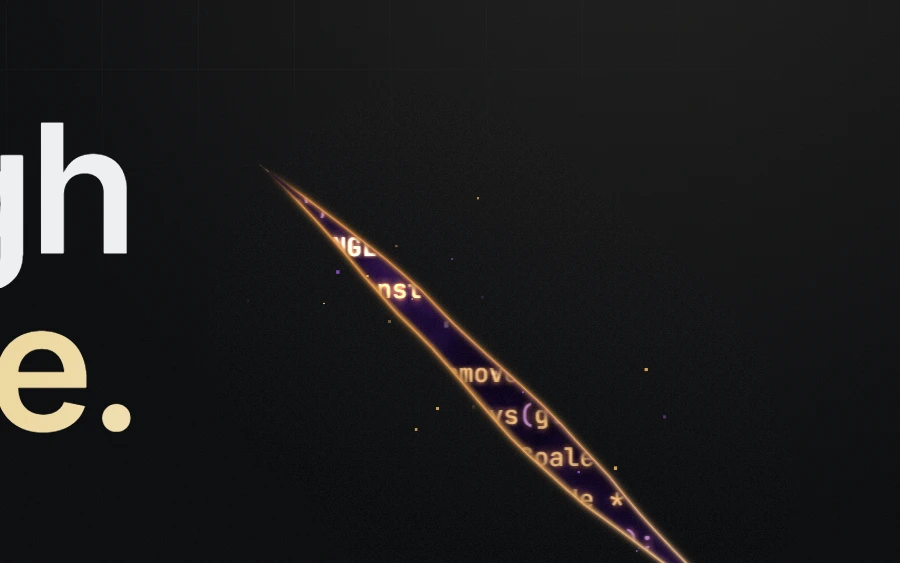
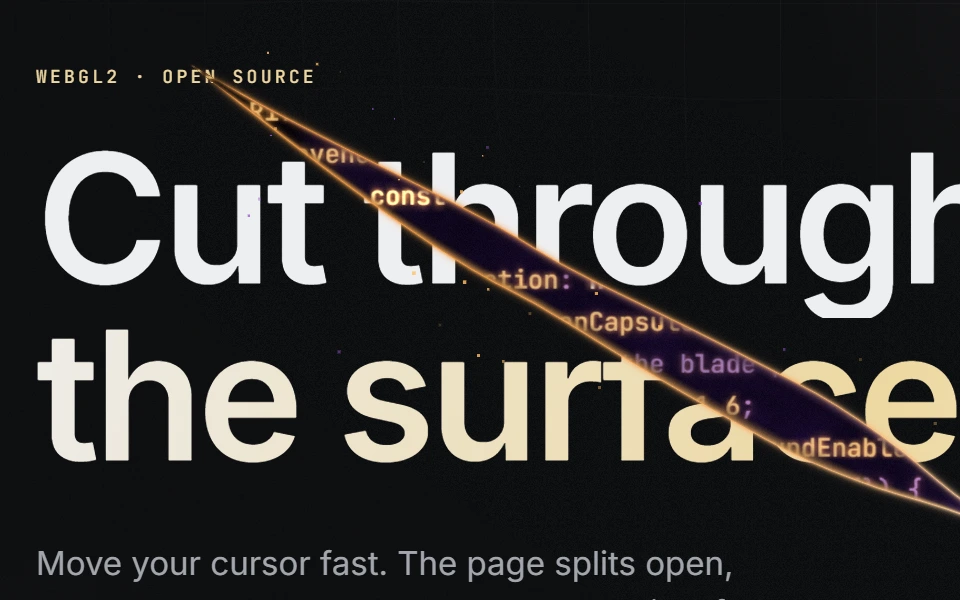
Add an over layer: the cut on top of the content, the bend behind it

Changed region(s): [[0.0, 0.0906, 1.0, 1.0], [0.0, 0.5435, 0.3111, 0.7851], [0.0311, 0.0906, 0.1244, 0.151]]

diff --git a/src/hero-rift/engine.ts b/src/hero-rift/engine.ts
@@ -14,6 +14,10 @@ export type EngineOptions = {
   soundUrl: string | null;
   /** Whether the sound starts on (it still needs one click/key press first — a browser rule). */
   soundEnabled: boolean;
+  /** Draw the cut over the page content (this canvas sits above it). */
+  over: boolean;
+  /** With `over`: a canvas BEHIND the content that receives the lens (the grid bending), so it shows under the text. */
+  lensCanvas: HTMLCanvasElement | null;
 };
 
 export type RiftController = {
@@ -45,7 +49,7 @@ type Resources = {
 
 const MAIN_UNIFORMS = [
   "uPts", "uSeg", "uCount", "uRes", "uSize", "uScale", "uTime", "uParallax", "uNebula", "uCode",
-  "uCodeSize", "uBg", "uFg", "uAccent", "uRim", "uGlow", "uViolet", "uDark",
+  "uCodeSize", "uBg", "uFg", "uAccent", "uRim", "uGlow", "uViolet", "uDark", "uPass",
 ];
 const PARTICLE_UNIFORMS = ["uRes", "uScale", "uGlow", "uViolet", "uAlpha"];
 
@@ -205,6 +209,9 @@ export function createRiftEngine(canvas: HTMLCanvasElement, section: HTMLElement
     powerPreference: "high-performance",
   });
   if (!gl) return null;
+  const lens2d = options.over && options.lensCanvas ? options.lensCanvas.getContext("2d") : null;
+  /** The device-pixel rect copied to the lens canvas last frame (top-left origin), cleared before the next copy. */
+  const lensRect = { x: 0, y: 0, w: 0, h: 0 };
 
   let res: Resources | null = null;
   let disposed = false;
@@ -299,6 +306,11 @@ export function createRiftEngine(canvas: HTMLCanvasElement, section: HTMLElement
       canvas.width = w;
       canvas.height = h;
     }
+    if (lens2d && (lens2d.canvas.width !== w || lens2d.canvas.height !== h)) {
+      lens2d.canvas.width = w;
+      lens2d.canvas.height = h;
+      lensRect.w = 0;
+    }
     scale = cssW > 0 ? w / cssW : target;
     gl.viewport(0, 0, w, h);
     applyStatic();
@@ -306,10 +318,15 @@ export function createRiftEngine(canvas: HTMLCanvasElement, section: HTMLElement
   };
 
   // ------------------------------------------------------------ drawing
+  const clearLens = () => {
+    if (lens2d && lensRect.w > 0) lens2d.clearRect(lensRect.x, lensRect.y, lensRect.w, lensRect.h);
+    lensRect.w = 0;
+  };
   const clear = () => {
     gl.disable(gl.SCISSOR_TEST);
     gl.clearColor(0, 0, 0, 0);
     gl.clear(gl.COLOR_BUFFER_BIT);
+    clearLens();
   };
 
   const bindTextures = (r: Resources) => {
@@ -389,6 +406,24 @@ export function createRiftEngine(canvas: HTMLCanvasElement, section: HTMLElement
       gl.uniform2f(u.uParallax, parX, parY);
       bindTextures(res);
       gl.bindVertexArray(res.quad);
+      if (lens2d) {
+        // Two layers: the lens goes to the canvas behind the content, the cut stays on this one, over it.
+        gl.uniform1f(u.uPass, 1);
+        gl.drawArrays(gl.TRIANGLES, 0, 3);
+        const x = sx0;
+        const y = canvas.height - sy1; // 2D canvases count rows from the top
+        const w = sx1 - sx0;
+        const h = sy1 - sy0;
+        lens2d.drawImage(canvas, x, y, w, h, x, y, w, h);
+        lensRect.x = x;
+        lensRect.y = y;
+        lensRect.w = w;
+        lensRect.h = h;
+        gl.clear(gl.COLOR_BUFFER_BIT); // scissored: only the box
+        gl.uniform1f(u.uPass, 2);
+      } else {
+        gl.uniform1f(u.uPass, options.over ? 2 : 0);
+      }
       gl.drawArrays(gl.TRIANGLES, 0, 3);
     }
 

diff --git a/src/hero-rift/index.ts b/src/hero-rift/index.ts
@@ -8,6 +8,13 @@ export type HeroRiftOptions = {
   sound?: string;
   /** Start with the sound on. Default true. (Audio still waits for one click or key press — a browser rule.) */
   soundEnabled?: boolean;
+  /**
+   * "behind" (default): the whole effect sits under the hero's content.
+   * "over": the cut is drawn on top of the hero's content (text, buttons), while
+   * the grid bending around it stays behind the content so text stays sharp.
+   * Clicks pass through either way.
+   */
+  layer?: "behind" | "over";
 };
 
 export type HeroRift = {
@@ -42,11 +49,15 @@ const layer = (tag: "div" | "canvas", className: string) => {
  * competes with the page's first paint.
  */
 export function createHeroRift(section: HTMLElement, options: HeroRiftOptions = {}): HeroRift {
+  const over = options.layer === "over";
   section.classList.add("hero-rift");
+  if (over) section.classList.add("hero-rift--over");
   const grid = layer("div", "hero-rift__grid");
   const atmosphere = layer("div", "hero-rift__atmosphere");
+  // In "over" mode the grid bending gets its own canvas in the background slot.
+  const lens = over ? (layer("canvas", "hero-rift__lens") as HTMLCanvasElement) : null;
   const canvas = layer("canvas", "hero-rift__canvas") as HTMLCanvasElement;
-  section.prepend(grid, atmosphere, canvas);
+  section.prepend(...(lens ? [grid, atmosphere, lens, canvas] : [grid, atmosphere, canvas]));
 
   const fine = window.matchMedia("(pointer: fine)");
   const reduced = window.matchMedia("(prefers-reduced-motion: reduce)");
@@ -69,6 +80,8 @@ export function createHeroRift(section: HTMLElement, options: HeroRiftOptions = 
           fontFamily: mono,
           soundUrl: options.sound ?? null,
           soundEnabled,
+          over,
+          lensCanvas: lens,
         });
       })
       .catch((error) => console.warn("hero-rift: engine failed to load", error))
@@ -107,8 +120,9 @@ export function createHeroRift(section: HTMLElement, options: HeroRiftOptions = 
       stop();
       grid.remove();
       atmosphere.remove();
+      lens?.remove();
       canvas.remove();
-      section.classList.remove("hero-rift");
+      section.classList.remove("hero-rift", "hero-rift--over");
     },
   };
 }

diff --git a/src/hero-rift/shaders.ts b/src/hero-rift/shaders.ts
@@ -86,6 +86,7 @@ uniform sampler2D uCode;
 uniform vec2 uCodeSize;       // css px
 uniform vec3 uBg, uFg, uAccent, uRim, uGlow, uViolet;
 uniform float uDark;
+uniform float uPass;          // 0 = everything; 1 = only the lens (grid bending); 2 = only the cut (inside + rim)
 
 out vec4 outColor;
 
@@ -206,7 +207,11 @@ void main() {
   float open = smoothstep(.4, 3., hw);
   vec4 col = vec4(0.);
 
-  if (h.e > 0.) {
+  bool lens = uPass < 1.5;               // pass 0 or 1
+  bool cut = uPass < .5 || uPass > 1.5;  // pass 0 or 2
+  if (h.e > 0. && !lens) {
+    // Cut-only pass (drawn over the page content): outside the cut stays clear.
+  } else if (h.e > 0.) {
     float e = h.e;
     const float R = LENS_RADIUS;
     float f = exp(-(e * e) / (R * R)) * (1. - smoothstep(1.6 * R, LENS_CUTOFF * R, e));
@@ -230,7 +235,7 @@ void main() {
       }
       col = vec4(c * a, a);
     }
-  } else {
+  } else if (cut) {
     float x = clamp(h.d / max(hw, 1e-3), 0., 1.);
     // A window with depth: deep space drifts and shifts most, the code less.
     vec2 deep = p * .7 + uParallax * 34. + vec2(uTime * 5., uTime * 1.5);
@@ -253,7 +258,7 @@ void main() {
   // Only the cut's own edge is lit: a crisp hairline, no halo or shadow
   // around it. It cools as the cut heals — white-hot behind the blade, then
   // gold, then amber.
-  float rim = exp(-abs(h.e) / 1.4) * open * .95;
+  float rim = cut ? exp(-abs(h.e) / 1.4) * open * .95 : 0.;
   vec3 rimCol = mix(uRim, mix(uGlow, vec3(.85, .38, .12), .35 * uDark), smoothstep(.06, .55, h.age));
   col = over(vec4(rimCol, 1.) * rim, col);
   col.rgb += (hash(gl_FragCoord.xy) - .5) * .03 * col.a;

diff --git a/src/hero-rift/hero-rift.css b/src/hero-rift/hero-rift.css
@@ -33,6 +33,7 @@
 
 .hero-rift__grid,
 .hero-rift__atmosphere,
+.hero-rift__lens,
 .hero-rift__canvas {
   position: absolute;
   inset: 0;
@@ -40,9 +41,15 @@
   pointer-events: none;
 }
 
+.hero-rift__lens,
 .hero-rift__canvas {
   width: 100%;
   height: 100%;
+}
+
+/* layer: "over" — the cut above the hero's content. Raise --rift-over-z if your content has its own z-index. */
+.hero-rift--over .hero-rift__canvas {
+  z-index: var(--rift-over-z, 1);
 }
 
 /* Blueprint grid: 1px lines every 64px, fading out from the top centre. */

diff --git a/src/main.ts b/src/main.ts
@@ -24,7 +24,9 @@ const readSound = () => {
   }
 };
 
-const rift = createHeroRift(section, { sound: SOUND_URL, soundEnabled: readSound() });
+// The demo draws the cut over the text; ?layer=behind shows the other mode.
+const layer = new URLSearchParams(location.search).get("layer") === "behind" ? "behind" : "over";
+const rift = createHeroRift(section, { sound: SOUND_URL, soundEnabled: readSound(), layer });
 
 if (!canRunHeroRift()) {
   hint.textContent = window.matchMedia("(prefers-reduced-motion: reduce)").matches

diff --git a/README.md b/README.md
@@ -4,15 +4,17 @@ A WebGL2 hero banner you can slice open with your cursor.
 
 Move the mouse fast and the page splits along the blade's path. The grid around the cut bends away from it, code glows inside it over deep space, and the cut heals about a second later. Slow movement does nothing, so the page stays calm while people read it.
 
+The cut can run behind your content or straight over it, through your headline.
+
 Inspired by the reality-tearing rifts in *Doctor Strange in the Multiverse of Madness*.
 
-![A fast swipe has cut the hero open: code glows inside the cut and the grid bends around it](docs/screenshots/cut.webp)
+![A fast swipe has cut across the headline: code glows inside the cut, over the text](docs/screenshots/cut.webp)
 
 <!-- Drop a screen recording here: on GitHub, edit this file and drag an .mp4 into the editor. -->
 
 | Inside the cut | Light theme |
 | --- | --- |
-| ![Close-up of the cut: code over deep space, with a thin glowing edge](docs/screenshots/closeup.webp) | ![The same effect on a light background](docs/screenshots/light.webp) |
+| ![Close-up of the cut crossing the headline: code over deep space, with a thin glowing edge](docs/screenshots/closeup.webp) | ![The same effect on a light background](docs/screenshots/light.webp) |
 
 ## Try it
 
@@ -21,7 +23,7 @@ npm install
 npm run dev
 ```
 
-Open the printed URL on a computer with a mouse or trackpad, and swipe fast across the page. Add `?theme=light` to the URL for the light theme.
+Open the printed URL on a computer with a mouse or trackpad, and swipe fast across the page. Add `?theme=light` to the URL for the light theme, or `?layer=behind` to keep the cut under the text.
 
 Requires Node 20.19 or newer.
 
@@ -75,8 +77,25 @@ export default function Hero() {
 | `code` | a few lines of the rift's own source | The text that shows through the cut. Use your own code. |
 | `sound` | none | URL of a short whoosh or hit. Leave it out for a silent rift. |
 | `soundEnabled` | `true` | Start with the sound on or off. |
+| `layer` | `"behind"` | `"over"` draws the cut on top of the hero's content. The grid still bends behind the content, so text stays sharp. |
 
 The returned object has `setSoundEnabled(on)`, `destroy()`, and `active` (false when the effect isn't running on this device).
+
+### Over the content
+
+With `layer: "over"` the cut is drawn above the hero's text and buttons. The bending grid is drawn on a second canvas behind the content, so the text never gets painted over. Clicks still go through to your content.
+
+The cut stays inside the hero's own layer, so a fixed site header still covers it. To draw it above the header as well, let the hero join the page's layers and raise the cut:
+
+```css
+#hero {
+  isolation: auto;               /* the hero no longer keeps its layers to itself */
+  background-color: transparent; /* the page background now shows behind the grid */
+  --rift-over-z: 60;             /* higher than your header's z-index */
+}
+```
+
+This only works if the page background is set on `html`, in the hero's colour. `body` and every element between it and the hero must have no background of their own, or they cover the grid.
 
 ### Colours
 
